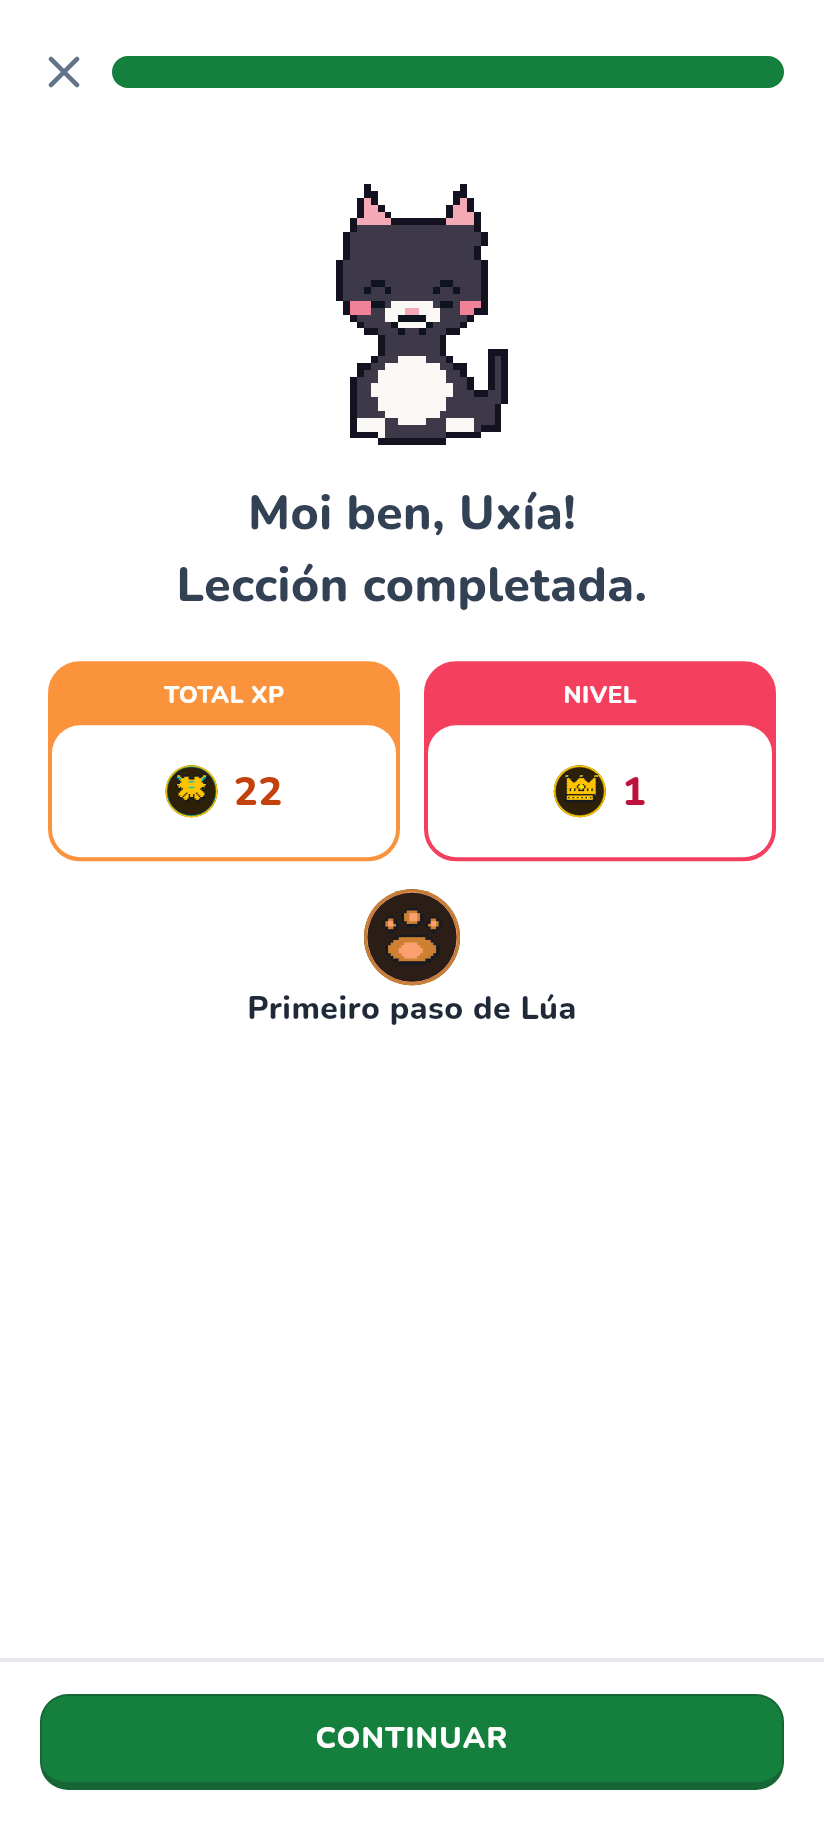
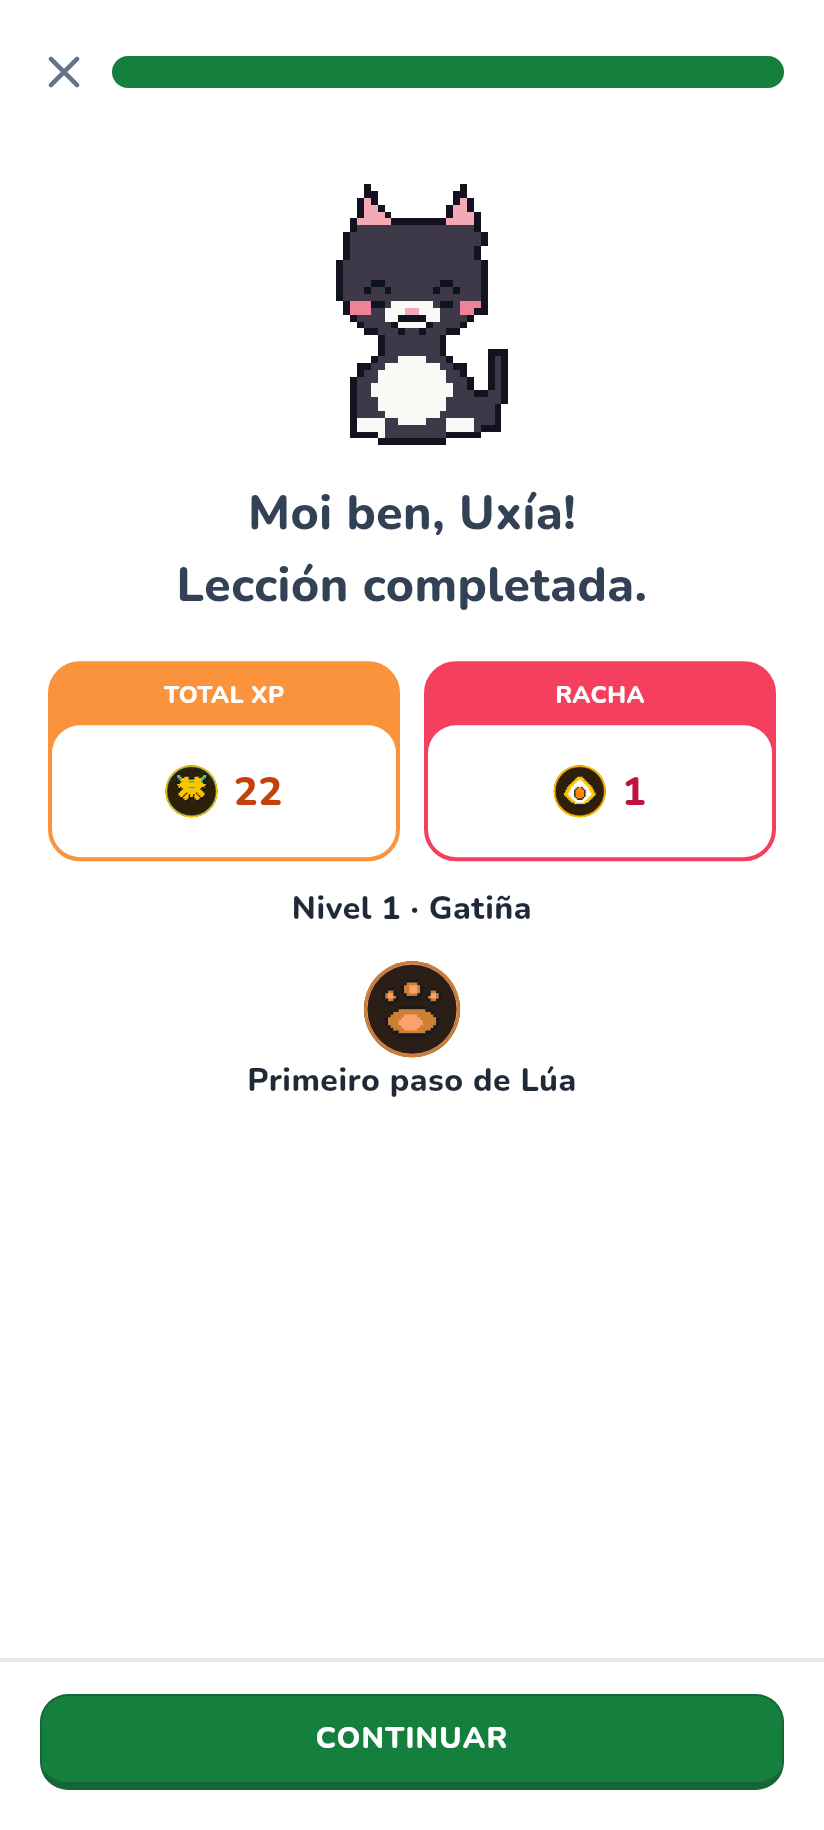
O-20261110-1: racha en el fin de la lección y el camino entero en la primera pantalla
La tarjeta rosa del fin (los corazones de duolingo-clone) es la racha;
el nivel va debajo. El botón del banner se oculta en móvil como en la
fuente (hidden xl:flex) y los nodos se compactan: a 412×915 caben los
cinco y «Empezar». Capturas gl/es regeneradas.

Claude-Session: https://claude.ai/code/session_01JWGSxXCBGSNhrehHwDcMph

diff --git a/lib/features/familias/widgets/learn_duolingo.dart b/lib/features/familias/widgets/learn_duolingo.dart
@@ -93,38 +93,44 @@ class BannerUnidade extends StatelessWidget {
   });
 
   @override
-  Widget build(BuildContext context) => Container(
-        key: const Key('learn_banner'),
-        padding: const EdgeInsets.all(18),
-        decoration: BoxDecoration(
-          color: DuoCores.verde,
-          borderRadius: BorderRadius.circular(12),
-        ),
-        child: Column(
-          crossAxisAlignment: CrossAxisAlignment.start,
-          children: [
-            Text(titulo,
-                style: const TextStyle(
-                    fontSize: 21,
-                    fontWeight: FontWeight.w800,
-                    color: Colors.white)),
-            const SizedBox(height: 6),
-            Text(descricion,
-                style: const TextStyle(
-                    fontSize: 15.5, height: 1.3, color: Colors.white)),
-            if (onContinuar != null) ...[
-              const SizedBox(height: 12),
-              _BotonDuo(
-                key: const Key('learn_banner_continuar'),
-                texto: continuar,
-                fondo: Colors.white,
-                borde: const Color(0xFFD4D4D4),
-                cor: DuoCores.textoVerde,
-                onTap: onContinuar,
-                icono: Icons.menu_book_rounded,
-              ),
+  Widget build(BuildContext context) => GestureDetector(
+        onTap: onContinuar,
+        child: Container(
+          key: const Key('learn_banner'),
+          padding: const EdgeInsets.all(16),
+          decoration: BoxDecoration(
+            color: DuoCores.verde,
+            borderRadius: BorderRadius.circular(12),
+          ),
+          child: Column(
+            crossAxisAlignment: CrossAxisAlignment.start,
+            children: [
+              Text(titulo,
+                  style: const TextStyle(
+                      fontSize: 19,
+                      fontWeight: FontWeight.w800,
+                      color: Colors.white)),
+              const SizedBox(height: 6),
+              Text(descricion,
+                  style: const TextStyle(
+                      fontSize: 15.5, height: 1.3, color: Colors.white)),
+              // En la fuente el botón va `hidden ... xl:flex`: en el móvil no
+              // sale, y la caja entera se toca.
+              if (onContinuar != null &&
+                  MediaQuery.sizeOf(context).width >= 600) ...[
+                const SizedBox(height: 12),
+                _BotonDuo(
+                  key: const Key('learn_banner_continuar'),
+                  texto: continuar,
+                  fondo: Colors.white,
+                  borde: const Color(0xFFD4D4D4),
+                  cor: DuoCores.textoVerde,
+                  onTap: onContinuar,
+                  icono: Icons.menu_book_rounded,
+                ),
+              ],
             ],
-          ],
+          ),
         ),
       );
 }
@@ -245,7 +251,7 @@ class CaminoNodos extends StatelessWidget {
             children: [
               for (var i = 0; i < etiquetas.length; i++)
                 Padding(
-                  padding: EdgeInsets.only(top: i == 0 ? 36 : 22),
+                  padding: EdgeInsets.only(top: i == 0 ? 12 : 6),
                   child: Transform.translate(
                     // `right: ${rightPosition}px` de la fuente.
                     offset: Offset(-sangria(i), 0),
@@ -290,15 +296,15 @@ class _Nodo extends StatelessWidget {
   Widget build(BuildContext context) {
     final bloq = estado == EstadoNodo.bloqueado;
     final boton = Container(
-      width: 70,
-      height: 70,
+      width: 60,
+      height: 60,
       decoration: BoxDecoration(
         shape: BoxShape.circle,
         color: bloq ? DuoCores.bloqueado : DuoCores.verde,
         border: Border(
           bottom: BorderSide(
               color: bloq ? DuoCores.bloqueadoBorde : DuoCores.verdeBorde,
-              width: 8),
+              width: 6),
         ),
       ),
       child: Icon(
@@ -307,7 +313,7 @@ class _Nodo extends StatelessWidget {
             : ultimo
                 ? Icons.workspace_premium_rounded
                 : Icons.star_rounded,
-        size: 40,
+        size: 32,
         color: bloq ? DuoCores.bloqueadoBorde : Colors.white,
       ),
     );
@@ -320,8 +326,8 @@ class _Nodo extends StatelessWidget {
           children: [
             if (estado == EstadoNodo.actual)
               SizedBox(
-                width: 102,
-                height: 130,
+                width: 88,
+                height: 116,
                 child: Stack(
                   alignment: Alignment.center,
                   clipBehavior: Clip.none,
@@ -329,8 +335,8 @@ class _Nodo extends StatelessWidget {
                     const Positioned(
                       top: 28,
                       child: SizedBox(
-                        width: 102,
-                        height: 102,
+                        width: 88,
+                        height: 88,
                         child: CircularProgressIndicator(
                           value: 0,
                           strokeWidth: 8,
@@ -339,7 +345,7 @@ class _Nodo extends StatelessWidget {
                         ),
                       ),
                     ),
-                    Positioned(top: 44, child: boton),
+                    Positioned(top: 42, child: boton),
                     Positioned(
                       top: 0,
                       child: Container(
@@ -363,7 +369,7 @@ class _Nodo extends StatelessWidget {
               )
             else
               boton,
-            const SizedBox(height: 4),
+            const SizedBox(height: 2),
             Text(etiqueta,
                 style: TextStyle(
                     fontSize: 13,
@@ -636,17 +642,27 @@ class _Fin extends StatelessWidget {
             ),
             const SizedBox(width: 12),
             Expanded(
+              // Donde duolingo-clone pone los corazones, la racha.
               child: _Resultado(
-                titulo: isGl ? 'Nivel' : 'Nivel',
-                valor: '${r?.nivel ?? 1}',
+                key: const Key('leccion_fin_racha'),
+                titulo: isGl ? 'Racha' : 'Racha',
+                valor: '${r?.racha ?? 0}',
                 cor: DuoCores.rosa,
                 texto: DuoCores.rosaTexto,
-                icono: AwardGlyph.crown,
+                icono: AwardGlyph.flame,
               ),
             ),
           ],
         ),
         if (r != null && c != null) ...[
+          const SizedBox(height: 12),
+          Text('Nivel ${r!.nivel} · ${c.nomeNivel(r!.nivel).resolve(lang)}',
+              key: const Key('leccion_fin_nivel'),
+              textAlign: TextAlign.center,
+              style: const TextStyle(
+                  fontSize: 16,
+                  fontWeight: FontWeight.w800,
+                  color: AppTheme.textPrimary)),
           for (final i in r!.insigniasNovas) ...[
             const SizedBox(height: 14),
             Center(child: PixelAward(glyph: i.glyph, tier: i.tier, size: 48)),

diff --git a/lib/features/criancas/xogo_lua.dart b/lib/features/criancas/xogo_lua.dart
@@ -279,8 +279,12 @@ class RecompensaLua {
   final List<InsigniaLua> insigniasNovas;
   final List<ObxectoLua> obxectosNovos;
   final bool xaXogouHoxe;
+
+  /// Días seguidos de juego tras esta sesión.
+  final int racha;
   const RecompensaLua({
     required this.xpGanado,
+    this.racha = 0,
     required this.nivel,
     required this.subeNivel,
     required this.insigniasNovas,
@@ -313,6 +317,7 @@ class RecompensaLua {
         insigniasNovas: const [],
         obxectosNovos: const [],
         xaXogouHoxe: true,
+        racha: g.racha,
       ),
     );
   }
@@ -390,6 +395,7 @@ class RecompensaLua {
     ),
     recompensa: RecompensaLua(
       xpGanado: xpGanado,
+      racha: racha,
       nivel: nivel,
       subeNivel: nivel > c.nivel(g.xp),
       insigniasNovas: novas,

diff --git a/test/features/ux_l3_test.dart b/test/features/ux_l3_test.dart
@@ -124,7 +124,14 @@ void main() {
       tester.view.physicalSize = const Size(412, 915);
       await Pasarela.asentar(tester);
       final barra = tester.getRect(find.byType(NavigationBar)).top;
-      for (final k in ['learn_banner', 'learn_nodo_0', 'learn_nodo_3']) {
+      for (final k in [
+        'learn_banner',
+        'learn_nodo_0',
+        'learn_nodo_3',
+        // O-20261110-1: el camino entero, con el viernes y «Empezar».
+        'learn_nodo_4',
+        'learn_empezar',
+      ]) {
         expect(
             tester.getRect(find.byKey(Key(k))).bottom, lessThanOrEqualTo(barra),
             reason: k);

diff --git a/test/features/criancas_test.dart b/test/features/criancas_test.dart
@@ -325,6 +325,13 @@ void main() {
     }
     expect(find.byKey(const Key('leccion_fin')), findsOneWidget);
     expect(find.byKey(const Key('leccion_fin_xp')), findsOneWidget);
+    // XP, racha e premio de Lúa, como o fin de duolingo-clone.
+    expect(
+        find.descendant(
+            of: find.byKey(const Key('leccion_fin_racha')),
+            matching: find.text('1')),
+        findsOneWidget);
+    expect(find.text('Primeiro paso de Lúa'), findsOneWidget);
     expect(store.xogo('c1').xp, greaterThan(0));
     await tester.tap(find.byKey(const Key('leccion_continuar')));
     await Pasarela.asentar(tester);

diff --git a/docs/ORDENES.md b/docs/ORDENES.md
@@ -242,3 +242,13 @@ Antes (28/10) Frank dijo «es un ejemplo, no a rajatabla» y se adaptó; el 9/11
 - [x] Al acabar, la pantalla de fin de Duolingo: XP ganado, racha y premio de Lúa · evidencia: test/features/criancas_test.dart («Learn de Duolingo: o nodo de hoxe abre a lección paso a paso e o fin dá XP») y docs/capturas/leccion-duolingo-fin-gl.png, leccion-duolingo-fin-es.png
 - [x] Capturas en gl y es comparadas lado a lado con las de duolingo-clone · evidencia: docs/comparativa-duolingo.html y docs/capturas/fuente-duolingo-learn.png
 - [ ] Mergeado en main con CI en verde · evidencia:
+
+## O-20261110-1 · Terminar O-3, O-5 y O-4 y mergear con CI en verde
+Estado: abierta
+> Autorización de Frank (10 nov 2026): termina todo completo y, cuando el CI esté en verde, haz merge a `main` y push. Sin preguntarme nada más. [...] 1. O-20261109-5 (UX Duolingo): la pantalla de fin de lección debe mostrar XP ganado, racha y premio de Lúa; hoy falta la racha. Añádela con test. Comprueba que el camino en nodos de Hoy cabe entero (nodo del viernes y «Empezar»). [...] 2. O-20261109-4 (ACOPROS 0-2): cumple los 9 criterios que siguen en `[ ]` [...] No inventes contenido pedagógico sin base en la fuente. [...] 4. Cuando los gates del PR estén en verde y no queden criterios abiertos de O-3, O-5 y O-4, haz merge del PR #47 a `main` y push. Si queda algún criterio abierto o un gate en rojo, NO hagas merge: dime cuál y por qué, y para.
+Fuente: docs/ORDENES.md (criterios abiertos de O-20261109-3, O-20261109-4 y O-20261109-5) y referencias/acopros/consideraciones-2026-11-09.md
+
+- [x] La pantalla de fin de la lección enseña el XP ganado, la racha y el premio de Lúa · evidencia: test/features/criancas_test.dart («Learn de Duolingo: o nodo de hoxe abre a lección paso a paso e o fin dá XP») y docs/capturas/leccion-duolingo-fin-gl.png, leccion-duolingo-fin-es.png
+- [x] En Hoy a 412×915, el camino entero cabe sin bajar: los cinco nodos y «Empezar» del día · evidencia: test/features/ux_l3_test.dart («Learn de Duolingo, sen baixar, a 412×915») y docs/capturas/hoxe-familias-gl.png, hoxe-familias-es.png
+- [ ] Los criterios abiertos de O-20261109-4 cumplidos con su gate · evidencia:
+- [ ] Cuerpo del PR #47 al día y merge en main con CI en verde · evidencia:
